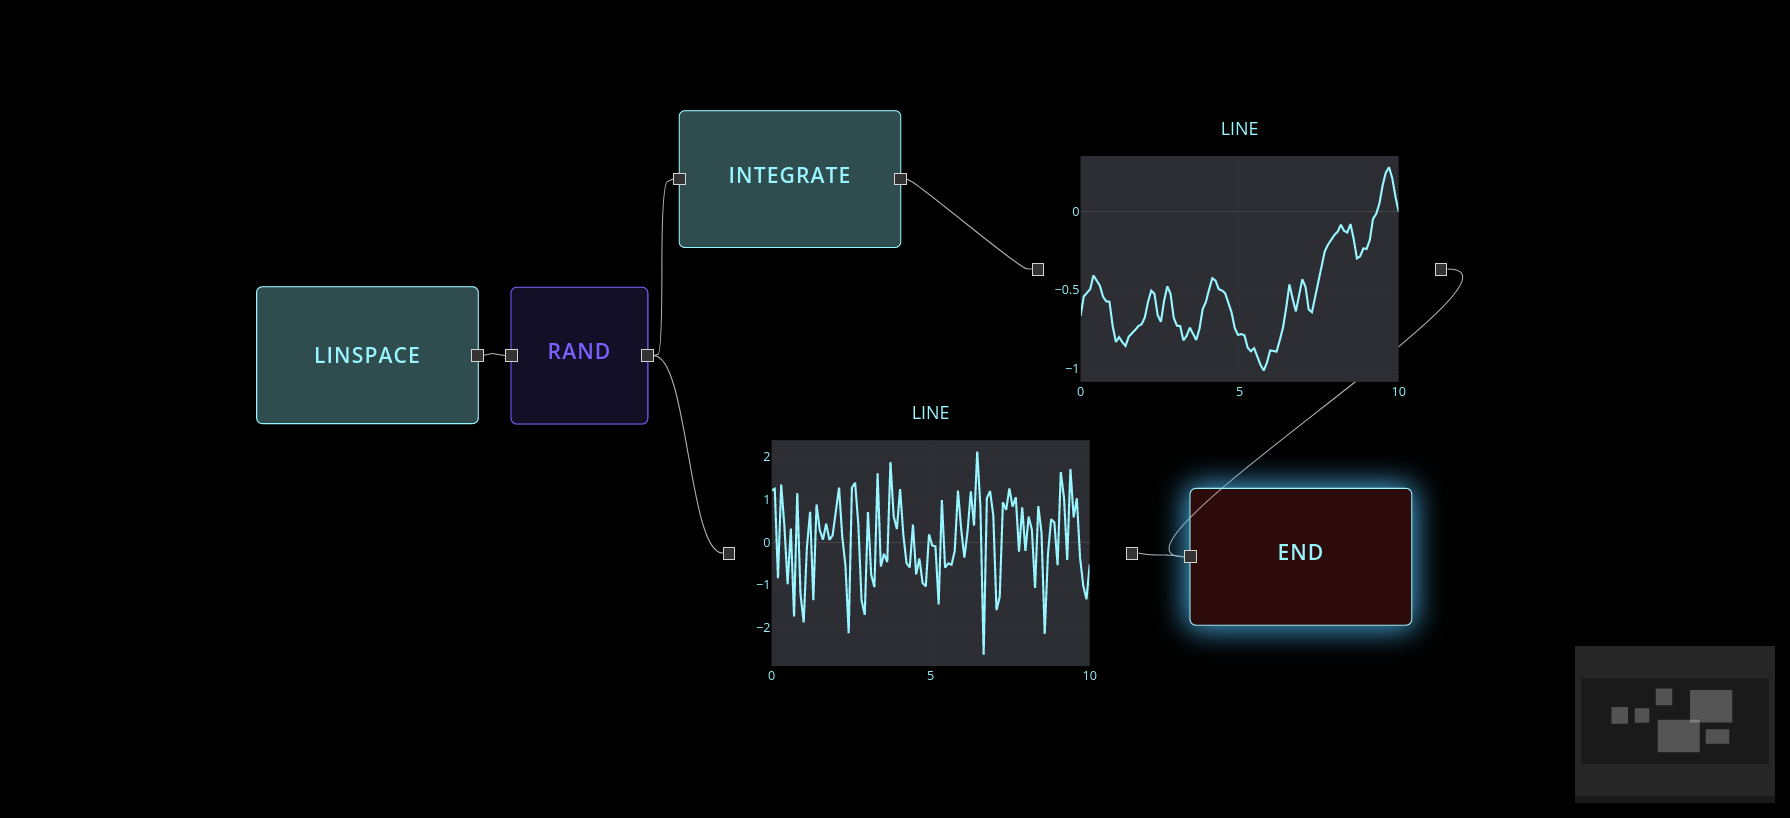
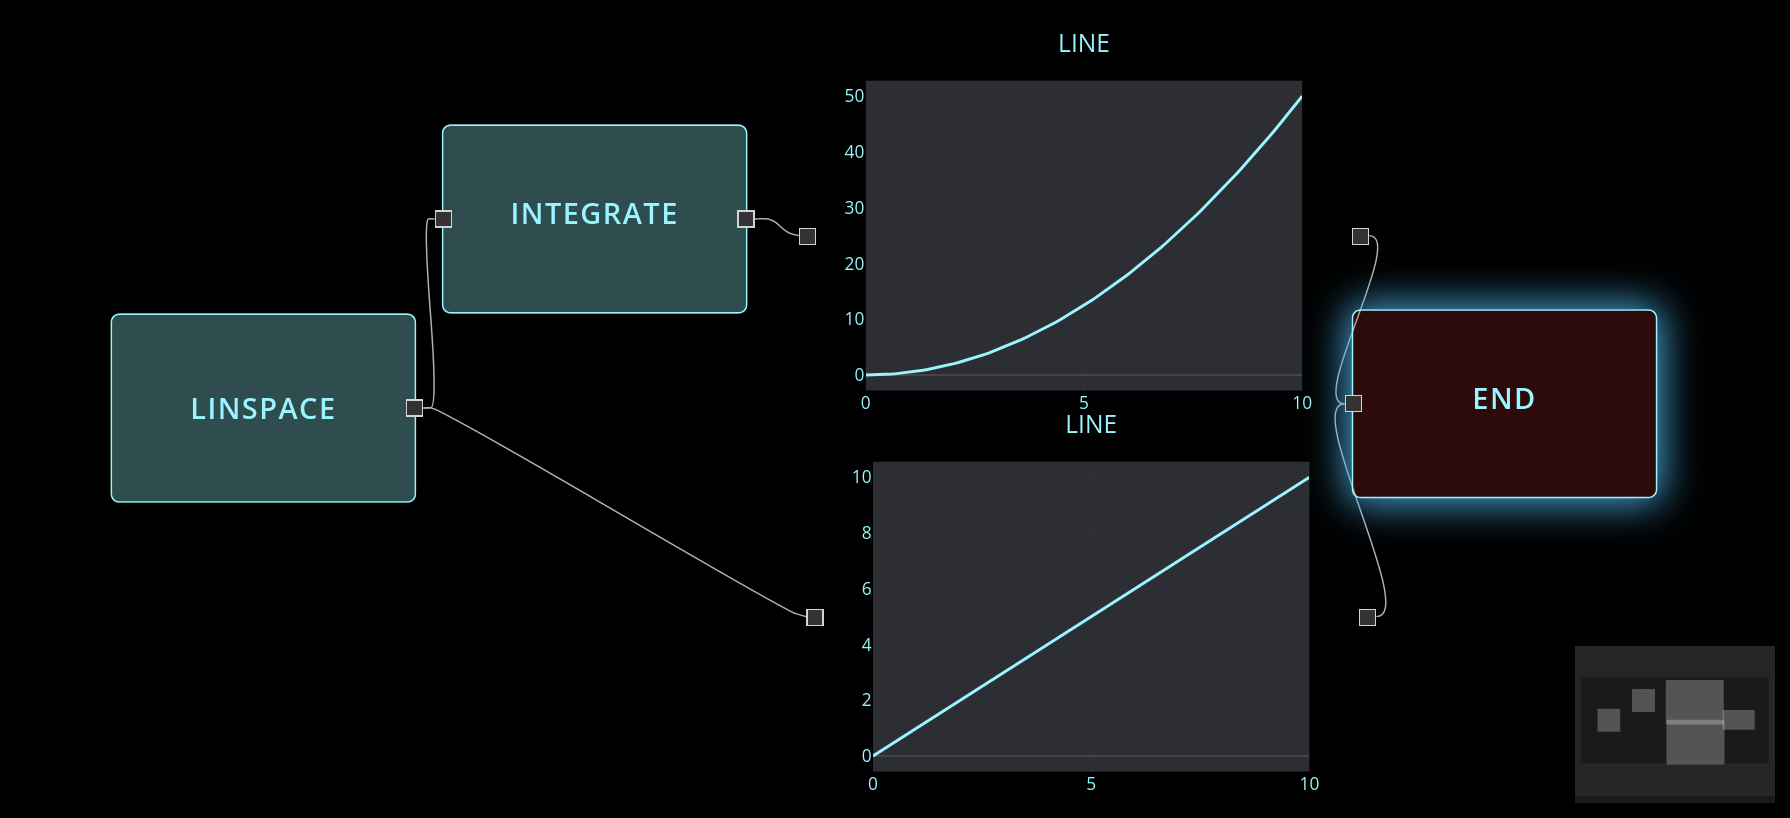
update: fix COUNT_VECTORIZER test

diff --git a/docs/nodes/TRANSFORMERS/CALCULUS/INTEGRATE/examples/EX1/example.md b/docs/nodes/TRANSFORMERS/CALCULUS/INTEGRATE/examples/EX1/example.md
@@ -1,5 +1,5 @@
-In this example, `LINSPACE` and `RAND` nodes generate two lists (the `Ordered_pair` composed of x and y) that are required for the `INTEGRATE` node.
+In this example, the `LINSPACE` node generate two lists (the `Ordered_pair` composed of x and y) that are required for the `INTEGRATE` node.
 
 Then `INTEGRATE` node computes its integration using trapezoidal rule on the given input lists.
 
-With the two `LINE` nodes we can see that the one showing the integrate function indeed represent the variation of the area under the curve of the original function as expected.
+With the two `LINE` nodes we can see that the original `LINSPACE` function is a diagonal of the form $y=x$ which is constantly increasing. Then the `LINE` node representing the integrate result is showing us an increasing curve as expected since the integral of $x$ is $\frac{x^2}{2}$.

diff --git a/docs/nodes/TRANSFORMERS/CALCULUS/DOUBLE_DEFINITE_INTEGRAL/examples/EX1/example.md b/docs/nodes/TRANSFORMERS/CALCULUS/DOUBLE_DEFINITE_INTEGRAL/examples/EX1/example.md
@@ -1,3 +1,13 @@
-In this example, `DOUBLE_DEFINITE_INTEGRAL` node generates a Scalar type value.
+In this example, `DOUBLE_DEFINITE_INTEGRAL` node generates a Scalar type value with the following parameters.
+
+Function: x*y
+
+Upper_bound_x: 2
+
+Lower_bound_x: 0
+
+Upper_bound_y: 1
+
+Lower_bound_y: 0
 
 The value is added with the `SINE` node which move up the sine function from the scalar that was add. This difference is visible when you compare the two `SCATTER` nodes.
